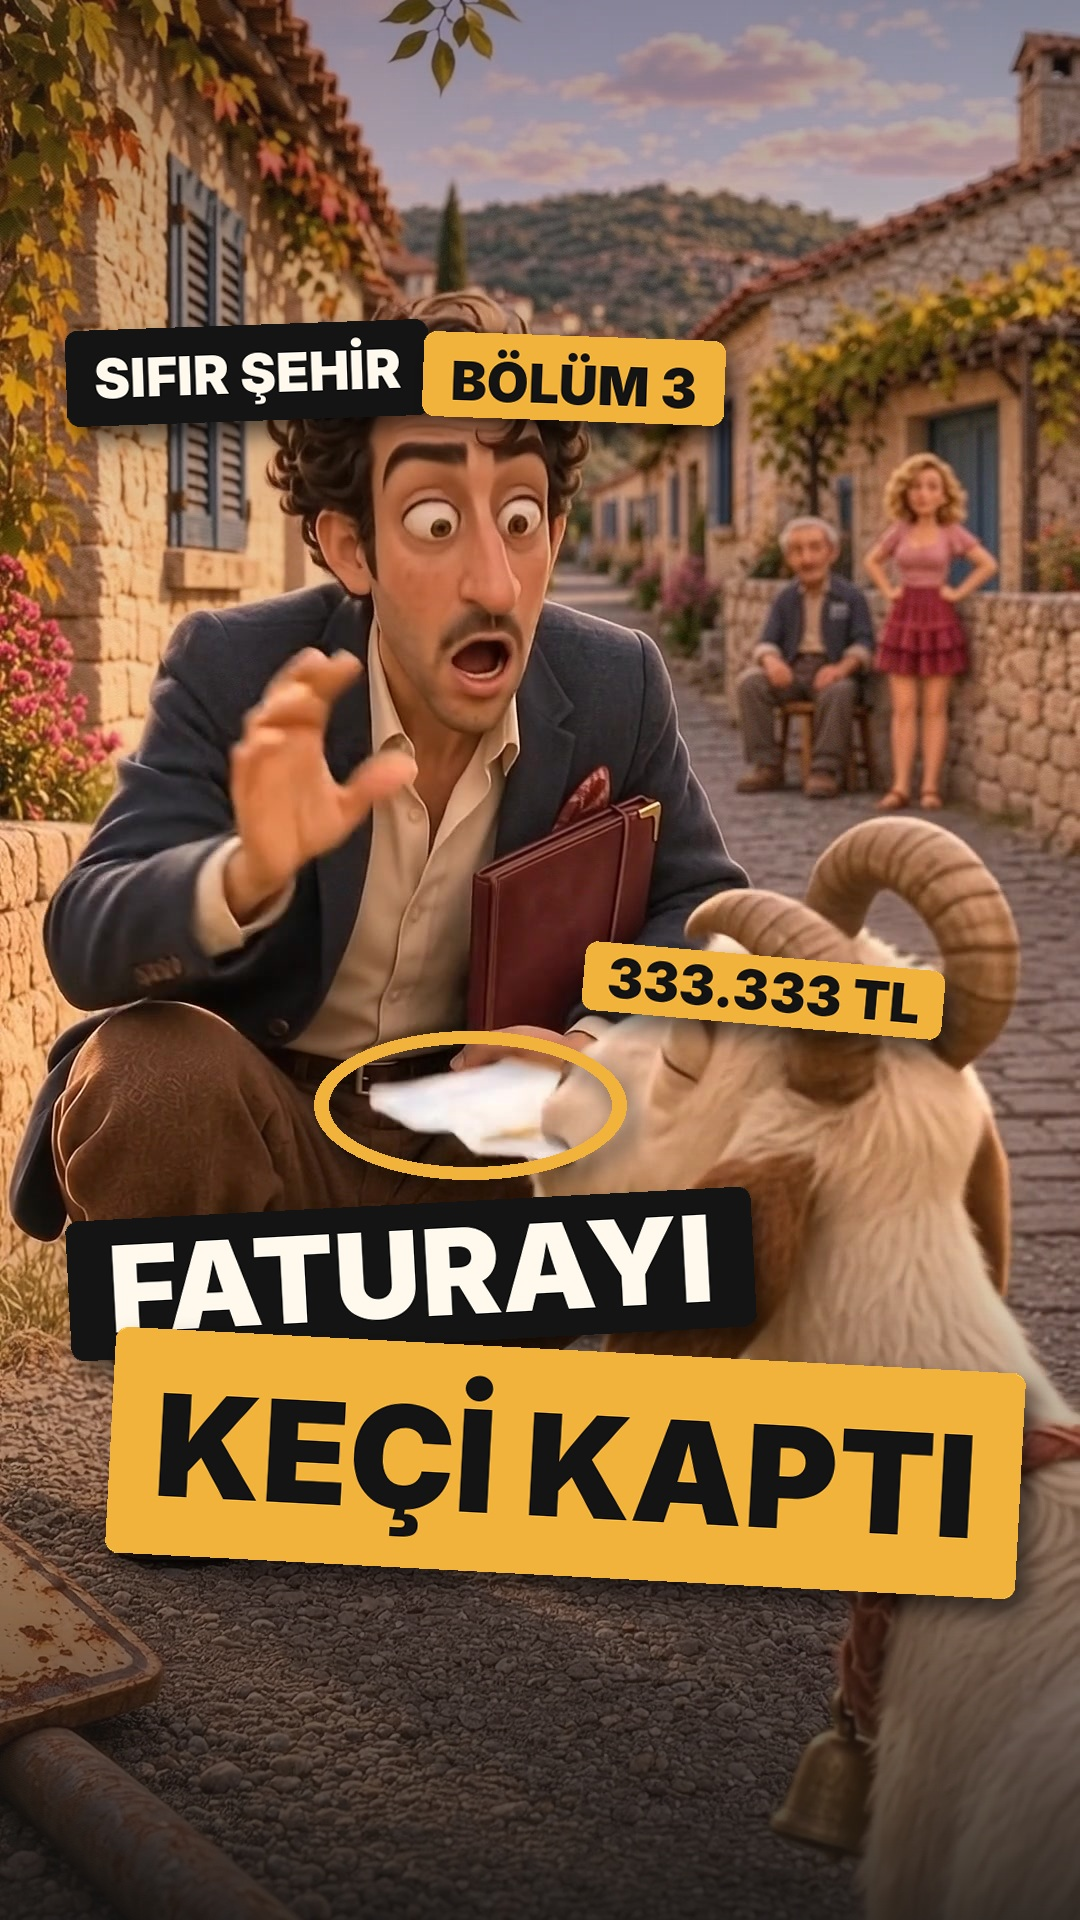
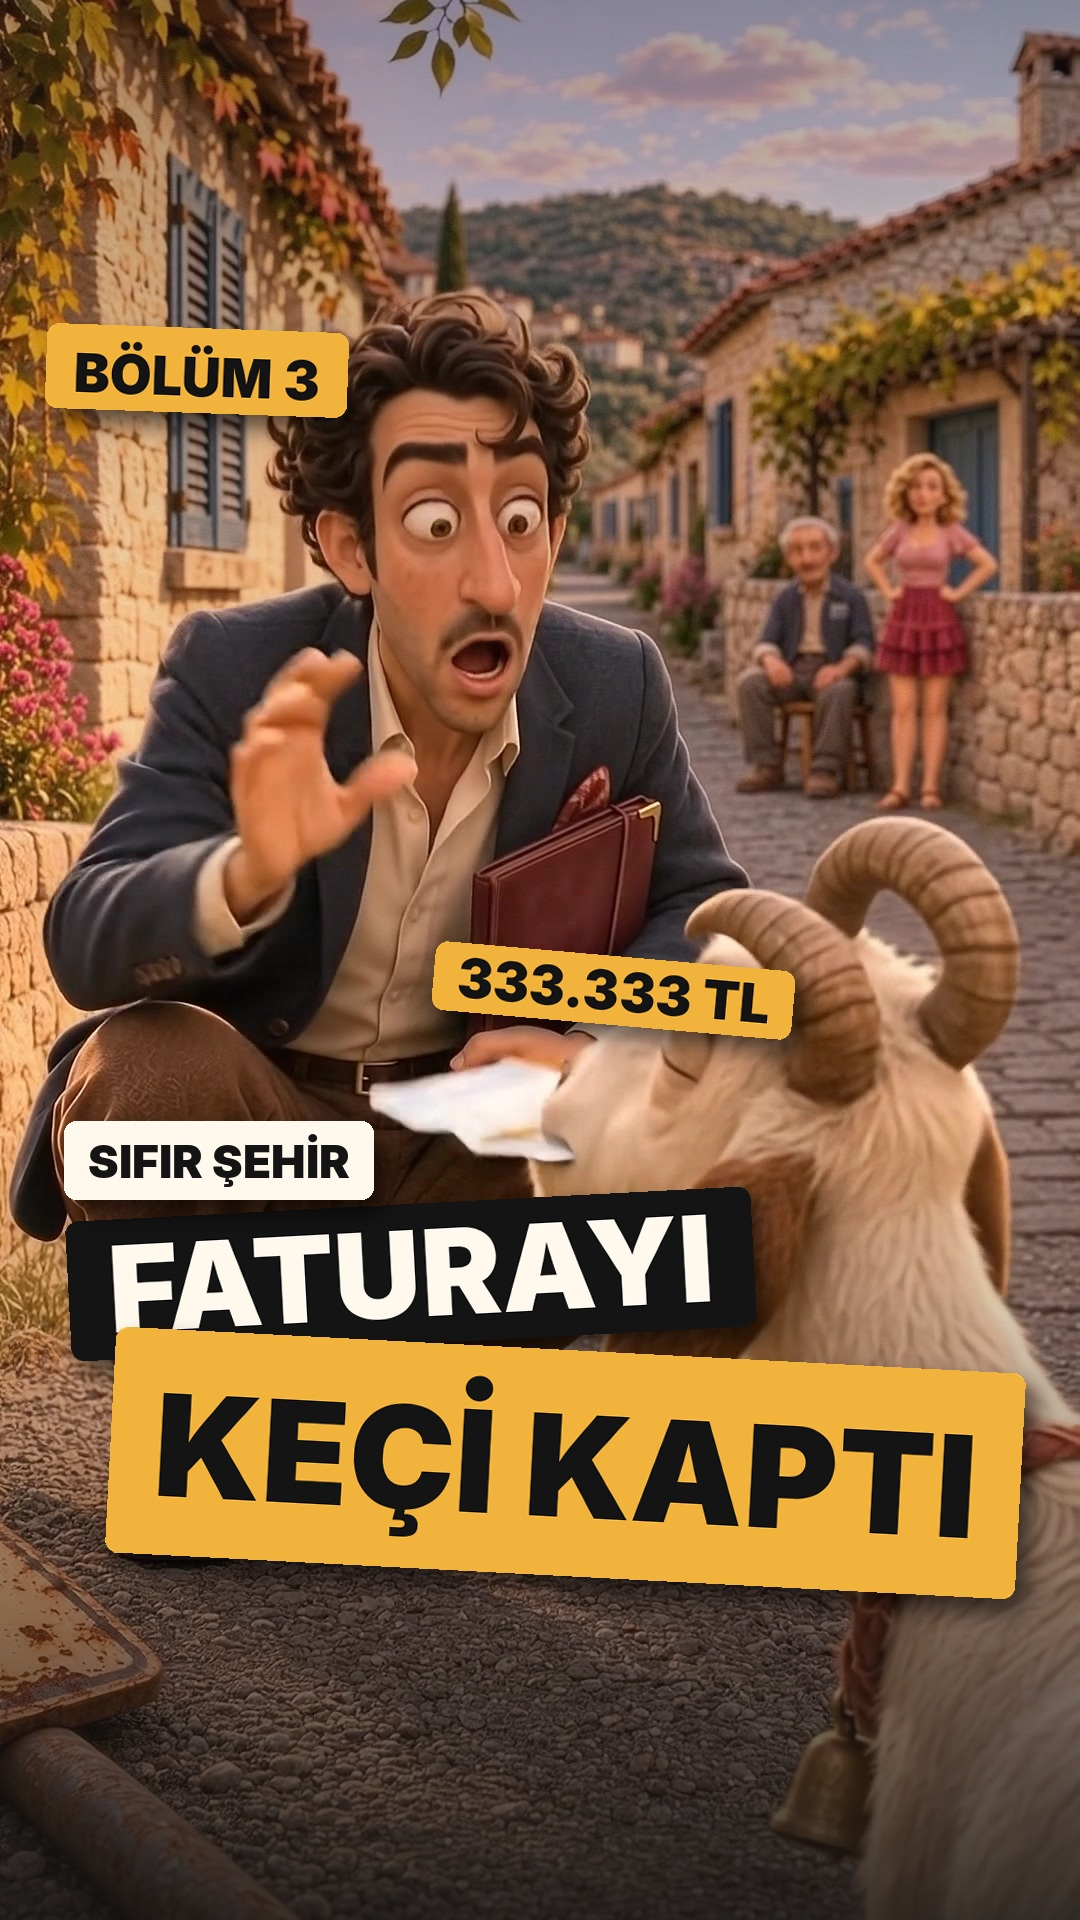
B03 kapak A: halka kaldırıldı, dizi adı başlığın üstünde, bölüm etiketi sol üstte
Claude-Session: https://claude.ai/code/session_01LoZARZxTfFJDBrFU4t2wm6

Changed region(s): [[0.0611, 0.4688, 0.8861, 0.6562], [0.0306, 0.1562, 0.7028, 0.25]]

diff --git a/araclar/kapak2.py b/araclar/kapak2.py
@@ -40,16 +40,20 @@ k = Image.new("RGBA", (W, H), (20, 20, 20, 255)); k.putalpha(gr.resize((W, H)));
 if halka:
     hx, hy, rx, ry, et = halka.split(","); hx, hy, rx, ry = int(hx), int(hy), int(rx), int(ry)
     kat = Image.new("RGBA", (W, H), (0, 0, 0, 0)); d = ImageDraw.Draw(kat)
-    for i in range(3): d.ellipse((hx - rx - i * 3, hy - ry - i * 2, hx + rx + i * 3, hy + ry + i * 2), outline=VURGU, width=9)
-    golgeli(im, kat, (0, 0))
+    if rx > 0:   # rx=0 verilirse halka çizilmez, yalnızca etiket konur
+        for i in range(3): d.ellipse((hx - rx - i * 3, hy - ry - i * 2, hx + rx + i * 3, hy + ry + i * 2), outline=VURGU, width=9)
+        golgeli(im, kat, (0, 0))
     e = kutu(et, font("Inter-Black.otf", 54), KOYU, VURGU, pad=(24, 14), aci=-5)
     golgeli(im, e, (min(max(hx + rx - 40, 60), W - 60 - e.size[0]), hy - ry - e.size[1] + 6))
 f1 = sigdir(l1, "Inter-Black.otf", 120, 880, 40); k1 = kutu(l1, f1, ACIK, KOYU, pad=(40, 26), aci=3)
 f2 = sigdir(l2, "Inter-Black.otf", 190, 940, 44); k2 = kutu(l2, f2, KOYU, VURGU, pad=(44, 30), aci=-3)
-a1 = kutu("SIFIR ŞEHİR", font("Inter-Black.otf", 54), ACIK, KOYU, pad=(28, 16), aci=2)
+a1 = kutu("SIFIR ŞEHİR", font("Inter-Black.otf", 46), KOYU, ACIK, pad=(24, 13), aci=0)
 a2 = kutu(bolum, font("Inter-Black.otf", 54), KOYU, VURGU, pad=(28, 16), aci=-2)
 yb = 318 if YER == "ust" else 1600 - (k1.size[1] - 36 + k2.size[1])   # başlık bloğunun üst kenarı
 ye = 1480 if YER == "ust" else 318                                     # dizi adı + bölüm etiketi
 golgeli(im, k1, (64, yb)); golgeli(im, k2, (64 + 40, yb + k1.size[1] - 36))
-golgeli(im, a1, (64, ye)); golgeli(im, a2, (64 + a1.size[0] - 10, ye + 12))
+if YER == "alt":   # bölüm etiketi sol üstte (B01-B02 kapaklarındaki yer); dizi adı başlığın hemen üstünde, sola yaslı
+    golgeli(im, a2, (44, 322)); golgeli(im, a1, (64, yb - a1.size[1] + 14))
+else:
+    golgeli(im, a1, (64, ye)); golgeli(im, a2, (64 + a1.size[0] - 10, ye + 12))
 im.convert("RGB").save(out, quality=94); print(out)
